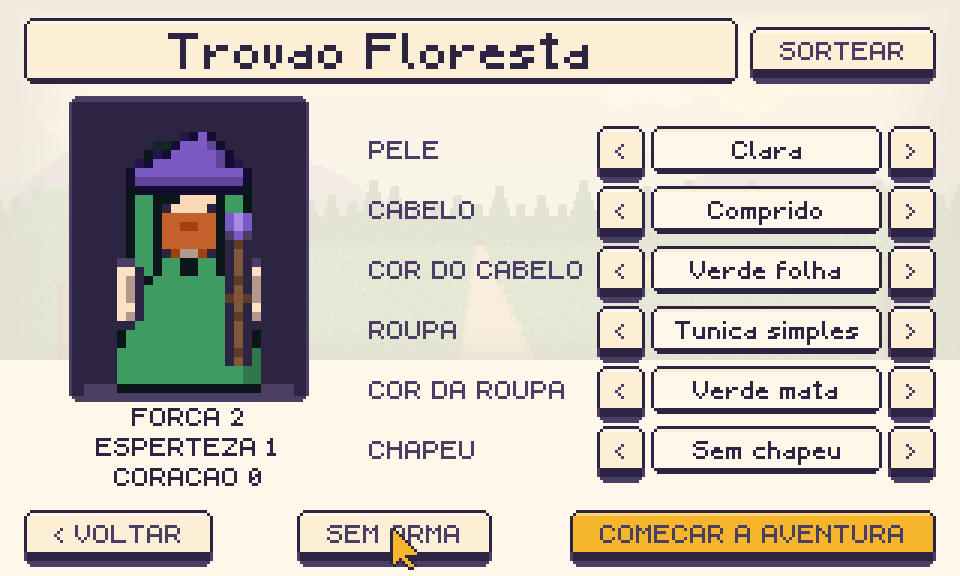
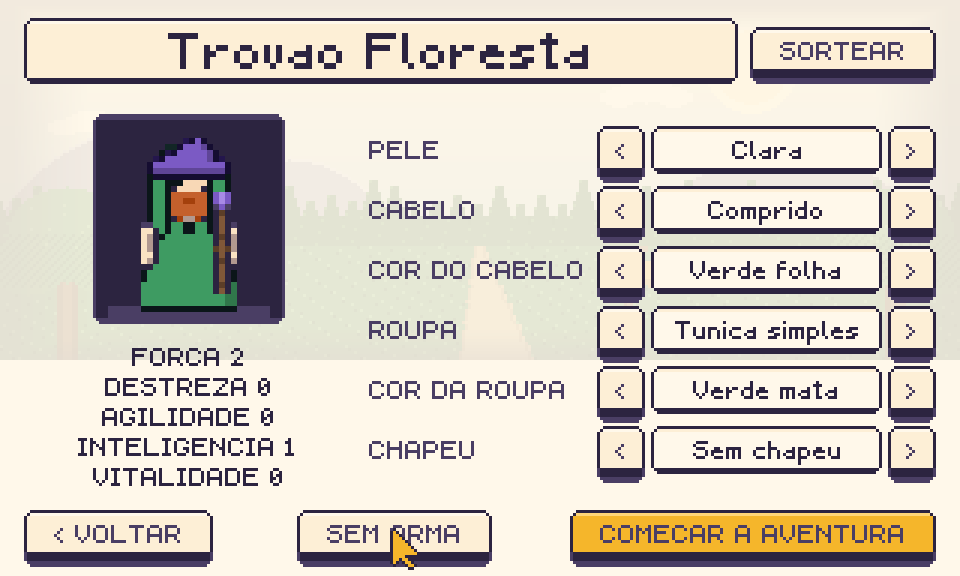
Os 5 atributos entram: Forca, Destreza, Agilidade, Inteligencia, Vitalidade
Implementa a segunda metade da revisao de 2026-09-04 (o d20 foi a primeira).
"Esperteza" fazia tres trabalhos escondidos - agora cada um tem nome proprio,
remapeado nas costuras reais do codigo:

- golpe a distancia (arco, funda): esperteza -> DESTREZA
- as treze magias: esperteza -> INTELIGENCIA
- iniciativa E a nova defesa do heroi (Combate.ts): esperteza -> AGILIDADE
- "coracao" -> VITALIDADE, porque a mesma palavra fazia dois trabalhos (o
  atributo E os coracoes/vida) - agora sao coisas com nomes diferentes

Bonus de raca/classe remapeados por flavor, nao em bloco: Mago -> Inteligencia
(magia), Cacador -> Destreza (arco), Elfo -> Inteligencia (Olhos de Coruja e
percepcao, que deriva de Inteligencia no desenho dos sub-atributos). Forca e
"coracao"-que-virou-vitalidade nas outras racas/classes sao troca direta, sem
ambiguidade.

Achado no caminho: o dom "Pe de Coelho" do Pequenino ainda dizia "troca um
OPS por um QUASE" - vocabulario que a revisao do d20 (commit anterior) ja
tinha aposentado. Corrigido pra "troca uma Falha por uma Falha Perto".

A criacao de personagem e a ficha (Criacao.ts, Ficha.ts) nao precisaram de
NENHUMA mudanca estrutural - ja liam tudo generico via ORDEM_PODERES/
ATRIBUTOS, entao os 5 atributos apareceram sozinhos. A grade de escolha do
"terceiro ponto" se rearranjou sozinha em 2+2+1, sem transbordo (confirmado
por npm run auditar, screenshots em ferramentas/telas/ atualizados).
[…]

Changed region(s): [[0.0625, 0.1562, 0.3438, 0.8438]]

diff --git a/src/dados/conteudo.ts b/src/dados/conteudo.ts
@@ -9,7 +9,12 @@
  */
 import type { Marca } from "../sistemas/marcas";
 
-export type Atributo = "forca" | "esperteza" | "coracao";
+/** Revisao de 2026-09-04 (CLAUDE.md): os tres da mesa (FORCA, ESPERTEZA,
+ *  CORACAO) viraram cinco. "Esperteza" fazia tres trabalhos escondidos - agora
+ *  cada um tem nome proprio: magia vira Inteligencia, golpe a distancia vira
+ *  Destreza, iniciativa e defesa viram Agilidade. "Coracao" vira Vitalidade
+ *  porque a mesma palavra fazia dois trabalhos (o atributo E os coracoes/vida). */
+export type Atributo = "forca" | "destreza" | "agilidade" | "inteligencia" | "vitalidade";
 
 /** Que pedaco do mundo uma acao de combate atinge. */
 export type FormaDeAcao = "casa" | "linha" | "aoRedor";
@@ -36,14 +41,20 @@ export type AcaoDeCombate = {
   marca?: Marca;
 };
 
+/** Icones emprestados ate arte propria existir (arte/icones.py so tem "forca"
+ *  e "esperteza" desenhados hoje) - Inteligencia, Destreza e Agilidade
+ *  reusam o icone de esperteza, Vitalidade reusa o coracao cheio. Comecar
+ *  feio de proposito, ver docs/06-fluxo-de-sprites.md. */
 export const ATRIBUTOS: Record<Atributo, { nome: string; icone: string; oQueFaz: string }> = {
-  forca: { nome: "FORCA", icone: "forca", oQueFaz: "empurrar, subir, lutar, carregar" },
-  esperteza: { nome: "ESPERTEZA", icone: "esperteza", oQueFaz: "procurar, lembrar, consertar, magia" },
-  coracao: { nome: "CORACAO", icone: "coracao_cheio", oQueFaz: "coragem, fazer amigo, sorte, animais" },
+  forca: { nome: "FORCA", icone: "forca", oQueFaz: "empurrar, subir, golpe de perto, carregar" },
+  destreza: { nome: "DESTREZA", icone: "esperteza", oQueFaz: "golpe a distancia, mira, mao firme" },
+  agilidade: { nome: "AGILIDADE", icone: "esperteza", oQueFaz: "iniciativa, esquiva, reflexo" },
+  inteligencia: { nome: "INTELIGENCIA", icone: "esperteza", oQueFaz: "magia, lembrar, consertar" },
+  vitalidade: { nome: "VITALIDADE", icone: "coracao_cheio", oQueFaz: "coragem, fazer amigo, resistir" },
 };
 
-/** A ordem em que os tres poderes aparecem na ficha de papel, de cima para baixo. */
-export const ORDEM_PODERES: Atributo[] = ["forca", "esperteza", "coracao"];
+/** A ordem em que os cinco atributos aparecem na ficha, de cima para baixo. */
+export const ORDEM_PODERES: Atributo[] = ["forca", "destreza", "agilidade", "inteligencia", "vitalidade"];
 
 // ------------------------------------------------------------------ racas
 export type Raca = {
@@ -70,7 +81,7 @@ export const RACAS: Raca[] = [
     id: "vale",
     nome: "Gente do Vale",
     curto: "Vale",
-    bonus: "coracao",
+    bonus: "vitalidade",
     dom: "Nunca Desisto",
     domTexto: "Uma vez por aventura voce pode rolar o dado de novo.",
     icone: "dado-5",
@@ -92,7 +103,7 @@ export const RACAS: Raca[] = [
     id: "elfo",
     nome: "Elfo da Folha",
     curto: "Elfo",
-    bonus: "esperteza",
+    bonus: "inteligencia",
     dom: "Olhos de Coruja",
     domTexto: "Voce enxerga no escuro e de bem longe.",
     icone: "dom-olhos-de-coruja",
@@ -103,9 +114,9 @@ export const RACAS: Raca[] = [
     id: "pequenino",
     nome: "Pequenino do Trigo",
     curto: "Pequenino",
-    bonus: "coracao",
+    bonus: "vitalidade",
     dom: "Pe de Coelho",
-    domTexto: "Uma vez por aventura voce troca um OPS por um QUASE.",
+    domTexto: "Uma vez por aventura voce troca uma Falha por uma Falha Perto.",
     icone: "dom-pata-de-coelho",
     coracoes: 3,
     cor: 0xf5b62b,
@@ -123,7 +134,7 @@ export const RACAS: Raca[] = [
     acaoDeCombate: {
       id: "sopro-quentinho", tipo: "habilidade", nome: "SOPRO QUENTINHO",
       dica: "Solta fogo pela boca. So uma vez por aventura.",
-      icone: 10, cor: 0xf5b62b, forma: "casa", alcance: 2, atributo: "coracao", som: "fogo",
+      icone: 10, cor: 0xf5b62b, forma: "casa", alcance: 2, atributo: "vitalidade", som: "fogo",
     },
   },
 ];
@@ -165,7 +176,7 @@ export const CLASSES: Classe[] = [
     id: "mago",
     nome: "Mago da Torre",
     curto: "Mago",
-    bonus: "esperteza",
+    bonus: "inteligencia",
     arma: "cajado",
     habilidade: "Tres Magias",
     habilidadeTexto: "Voce escolhe tres magias, cada uma com um uso por aventura.",
@@ -175,7 +186,7 @@ export const CLASSES: Classe[] = [
     id: "cacador",
     nome: "Cacador de Dragao",
     curto: "Cacador",
-    bonus: "esperteza",
+    bonus: "destreza",
     arma: "arco",
     habilidade: "Olho de Alvo",
     habilidadeTexto: "Voce ganha +1 no dado quando mira em alguma coisa longe.",
@@ -185,7 +196,7 @@ export const CLASSES: Classe[] = [
     id: "amigo",
     nome: "Amigo dos Bichos",
     curto: "Amigo",
-    bonus: "coracao",
+    bonus: "vitalidade",
     arma: "funda",
     habilidade: "Fala com Bichos",
     habilidadeTexto: "Voce conversa com qualquer bicho, e eles ajudam se gostarem de voce.",

diff --git a/src/dados/provador.ts b/src/dados/provador.ts
@@ -41,8 +41,9 @@ export type AcaoDeProva = {
   espera: number;
   /** skill: 1 uso por combate inteiro */
   usosPorCombate?: number;
-  /** que atributo entra no 1d6. Golpe usa FORCA, magia usa ESPERTEZA, igual a mesa */
-  atributo: "forca" | "esperteza" | "coracao";
+  /** que atributo entra no dado. Golpe usa FORCA, magia usa INTELIGENCIA
+   *  (revisao de 2026-09-04 - era ESPERTEZA na mesa, ver CLAUDE.md) */
+  atributo: "forca" | "destreza" | "agilidade" | "inteligencia" | "vitalidade";
   /** uma frase curta, mostrada quando o dedo ou o mouse para em cima do slot */
   dica: string;
   som: "cajado" | "soco" | "fogo" | "gelo" | "voz";
@@ -63,10 +64,10 @@ export type AcaoDeProva = {
 export const ACOES_DE_PROVA: AcaoDeProva[] = [
   { id: "golpe-cajado", tipo: "golpe", nome: "CAJADO", dica: "Bate de perto. O cajado nao foi feito pra isso.", icone: ICONE.cajado, cor: 0xb08658, forma: "casa", alcance: 1, espera: 0, atributo: "forca", som: "cajado" },
   { id: "soco", tipo: "golpe", nome: "SEM ARMA", dica: "Sempre da pra usar. Nunca quebra nada.", icone: ICONE.punho, cor: 0x4a3e64, forma: "casa", alcance: 1, espera: 0, atributo: "forca", som: "soco" },
-  { id: "bola-de-fogo", tipo: "magia", nome: "BOLA DE FOGO", dica: "Uma bola de fogo que voa longe.", icone: ICONE.fogo, cor: 0xf2802b, forma: "casa", alcance: 6, espera: 2, atributo: "esperteza", som: "fogo" },
-  { id: "bafo-gelado", tipo: "magia", nome: "BAFO GELADO", dica: "Um sopro que pega todo mundo na linha.", icone: ICONE.gelo, cor: 0x7ec4f2, forma: "linha", alcance: 3, espera: 2, atributo: "esperteza", som: "gelo", marca: "gelo" },
-  { id: "voz-de-trovao", tipo: "magia", nome: "VOZ DE TROVAO", dica: "Um grito que pega todo mundo em volta.", icone: ICONE.trovao, cor: 0x7b5ac4, forma: "aoRedor", alcance: 3, espera: 3, atributo: "esperteza", som: "voz" },
-  { id: "sopro-quentinho", tipo: "skill", nome: "SOPRO QUENTINHO", dica: "So uma vez por luta. Vale a pena guardar.", icone: ICONE.sopro, cor: 0xf5b62b, forma: "casa", alcance: 2, espera: 0, usosPorCombate: 1, atributo: "coracao", som: "fogo" },
+  { id: "bola-de-fogo", tipo: "magia", nome: "BOLA DE FOGO", dica: "Uma bola de fogo que voa longe.", icone: ICONE.fogo, cor: 0xf2802b, forma: "casa", alcance: 6, espera: 2, atributo: "inteligencia", som: "fogo" },
+  { id: "bafo-gelado", tipo: "magia", nome: "BAFO GELADO", dica: "Um sopro que pega todo mundo na linha.", icone: ICONE.gelo, cor: 0x7ec4f2, forma: "linha", alcance: 3, espera: 2, atributo: "inteligencia", som: "gelo", marca: "gelo" },
+  { id: "voz-de-trovao", tipo: "magia", nome: "VOZ DE TROVAO", dica: "Um grito que pega todo mundo em volta.", icone: ICONE.trovao, cor: 0x7b5ac4, forma: "aoRedor", alcance: 3, espera: 3, atributo: "inteligencia", som: "voz" },
+  { id: "sopro-quentinho", tipo: "skill", nome: "SOPRO QUENTINHO", dica: "So uma vez por luta. Vale a pena guardar.", icone: ICONE.sopro, cor: 0xf5b62b, forma: "casa", alcance: 2, espera: 0, usosPorCombate: 1, atributo: "vitalidade", som: "fogo" },
 ];
 
 /** Quanto cada um anda por turno, em casas. */

diff --git a/src/sistemas/acao.ts b/src/sistemas/acao.ts
@@ -36,8 +36,8 @@ const TABELA_DE_GOLPE: Record<string, Omit<AcaoDeCombate, "id" | "nome" | "cor" 
   "espada-curta": { tipo: "golpe", icone: 6, forma: "casa", alcance: 1, atributo: "forca", som: "soco" },
   cajado: { tipo: "golpe", icone: 5, forma: "casa", alcance: 1, atributo: "forca", som: "cajado" },
   martelo: { tipo: "golpe", icone: 6, forma: "casa", alcance: 1, atributo: "forca", som: "soco" },
-  arco: { tipo: "golpe", icone: 6, forma: "casa", alcance: 5, atributo: "esperteza", som: "soco" },
-  funda: { tipo: "golpe", icone: 6, forma: "casa", alcance: 4, atributo: "esperteza", som: "soco" },
+  arco: { tipo: "golpe", icone: 6, forma: "casa", alcance: 5, atributo: "destreza", som: "soco" },
+  funda: { tipo: "golpe", icone: 6, forma: "casa", alcance: 4, atributo: "destreza", som: "soco" },
 };
 
 /** O golpe de arma do heroi. `armaSprite` e o que esta EQUIPADO agora (pode
@@ -76,8 +76,8 @@ const TABELA_DE_MAGIA: Record<string, { forma: FormaDeAcao; alcance: number; ico
   "bola-de-fogo": { forma: "casa", alcance: 6, icone: 7, marca: "fogo" },
 };
 
-/** As magias tocam ESPERTEZA na mesa, igual golpe toca FORCA - regra geral,
- *  sem excecao entre as treze. */
+/** As magias tocam INTELIGENCIA (revisao de 2026-09-04 - era ESPERTEZA na
+ *  mesa), igual golpe toca FORCA - regra geral, sem excecao entre as treze. */
 export function acaoDaMagia(id: string): AcaoDeHeroi | undefined {
   const dados = TABELA_DE_MAGIA[id];
   const magia = acharMagia(id);
@@ -85,7 +85,7 @@ export function acaoDaMagia(id: string): AcaoDeHeroi | undefined {
   const somPorMarca: Partial<Record<string, string>> = { fogo: "fogo", gelo: "gelo", "som-alto": "voz" };
   return {
     id: magia.id, tipo: "magia", nome: magia.nome.toUpperCase(), dica: magia.texto,
-    cor: magia.cor, atributo: "esperteza",
+    cor: magia.cor, atributo: "inteligencia",
     som: (dados.marca && somPorMarca[dados.marca]) ?? "",
     ...dados,
     escopo: "porAventura",

diff --git a/src/cenas/Combate.ts b/src/cenas/Combate.ts
@@ -105,7 +105,7 @@ export class Combate extends Phaser.Scene {
   private dicaChapa!: Phaser.GameObjects.NineSlice;
   private coracoes = 3;
   private coracoesMax = 3;
-  private atributos: Record<Atributo, number> = { forca: 0, esperteza: 0, coracao: 0 };
+  private atributos: Record<Atributo, number> = { forca: 0, destreza: 0, agilidade: 0, inteligencia: 0, vitalidade: 0 };
   private topoDaBarra = 0;
   private alcancadas = new Map<string, { tx: number; ty: number; custo: number; de?: string }>();
   /** A cena de onde o heroi e o chao de verdade vem emprestados. Nunca cria
@@ -382,7 +382,7 @@ export class Combate extends Phaser.Scene {
     if (lutadores.length === 0) return this.acabarCombate();
     this.fase = "vezDaCriatura";
     this.ordem.comecar([
-      { id: "heroi", iniciativa: this.d20() + this.atributos.esperteza, movimentoMax: MOVIMENTO.heroi },
+      { id: "heroi", iniciativa: this.d20() + this.atributos.agilidade, movimentoMax: MOVIMENTO.heroi },
       ...lutadores.map((g) => ({ id: g.id, iniciativa: this.d20(), movimentoMax: MOVIMENTO.goblin })),
     ]);
     const minha = this.casaDoHeroi();
@@ -472,9 +472,9 @@ export class Combate extends Phaser.Scene {
           // o heroi rola DEFESA contra o ND do golpe da criatura - nunca mais
           // a criatura rolando o proprio ataque.
           const nd = 10 + b.bonus;
-          const resultado = testar(this.atributos.esperteza, nd, this.d20);
+          const resultado = testar(this.atributos.agilidade, nd, this.d20);
           tocarFicha(DADO.rola);
-          this.mostrarDado(resultado, this.atributos.esperteza, b.sprite.x, b.sprite.y - 40);
+          this.mostrarDado(resultado, this.atributos.agilidade, b.sprite.x, b.sprite.y - 40);
           this.time.delayedCall(520, () => {
             tocarFicha(DESFECHO[somDoDesfecho(resultado.desfecho)]);
             if (foiSucesso(resultado.desfecho)) {

diff --git a/src/cenas/Provador.ts b/src/cenas/Provador.ts
@@ -119,7 +119,7 @@ export class Provador extends Phaser.Scene {
    *  coracoes dele, que ja sao tratados do mesmo jeito. */
   private condicoesHeroi: Condicao[] = [];
   private condicoesHeroiUI!: Phaser.GameObjects.Container;
-  private atributos: Record<Atributo, number> = { forca: 0, esperteza: 0, coracao: 0 };
+  private atributos: Record<Atributo, number> = { forca: 0, destreza: 0, agilidade: 0, inteligencia: 0, vitalidade: 0 };
   private topoDaBarra = 0;
   private alcancadas = new Map<string, { tx: number; ty: number; custo: number; de?: string }>();
   private largura = 0;
@@ -206,7 +206,7 @@ export class Provador extends Phaser.Scene {
     // Os atributos saem da mesa: raca da +1, classe da +1. O elfo mago fica com
     // ESPERTEZA 2 e FORCA 0, e isso aparece na hora de rolar: ele e otimo de
     // magia e ruim de porrada, sem ninguem ter escrito essa regra em lugar nenhum.
-    this.atributos = { forca: 0, esperteza: 0, coracao: 0 };
+    this.atributos = { forca: 0, destreza: 0, agilidade: 0, inteligencia: 0, vitalidade: 0 };
     this.atributos[acharRaca(ficha.raca).bonus] += 1;
     this.atributos[acharClasse(ficha.classe).bonus] += 1;
 
@@ -464,7 +464,7 @@ export class Provador extends Phaser.Scene {
     // re-rolada dezenas de vezes: a ordem muda sozinha na frente do jogador.
     this.fase = "vezDaCriatura";
     this.ordem.comecar([
-      { id: "heroi", iniciativa: this.d6() + this.atributos.esperteza, movimentoMax: MOVIMENTO.heroi },
+      { id: "heroi", iniciativa: this.d6() + this.atributos.agilidade, movimentoMax: MOVIMENTO.heroi },
       ...lutadores.map((g) => ({ id: g.id, iniciativa: this.d6(), movimentoMax: MOVIMENTO.goblin })),
     ]);
     // O heroi anda solto fora de combate, entao quando a luta comeca ele quase

diff --git a/src/sistemas/poderes.ts b/src/sistemas/poderes.ts
@@ -1,4 +1,5 @@
-/** Os tres poderes do heroi: FORCA, ESPERTEZA, CORACAO.
+/** Os cinco poderes do heroi: FORCA, DESTREZA, AGILIDADE, INTELIGENCIA,
+ * VITALIDADE (revisao de 2026-09-04 - eram tres na mesa, ver CLAUDE.md).
  *
  * A regra e a do manual impresso, pagina 2, passo 4: todo poder comeca em zero,
  * a raca da +1, a classe da +1, e o jogador coloca mais +1 onde quiser.
@@ -15,7 +16,7 @@ import type { Heroi } from "./estado";
 
 export type Poderes = Record<Atributo, number>;
 
-export const zerados = (): Poderes => ({ forca: 0, esperteza: 0, coracao: 0 });
+export const zerados = (): Poderes => ({ forca: 0, destreza: 0, agilidade: 0, inteligencia: 0, vitalidade: 0 });
 
 /** O que a origem do heroi da sozinha: +1 da raca e +1 da classe. */
 export function poderesDaOrigem(raca: string, classe: string): Poderes {
@@ -32,7 +33,10 @@ export function poderesDaOrigem(raca: string, classe: string): Poderes {
  *  nunca anda por ai com um ponto a menos do que o papel lhe daria. */
 export function poderEscolhidoDoHeroi(heroi: Heroi): Atributo {
   const escolhido = heroi.poderEscolhido as Atributo;
-  if (escolhido === "forca" || escolhido === "esperteza" || escolhido === "coracao") {
+  if (
+    escolhido === "forca" || escolhido === "destreza" || escolhido === "agilidade" ||
+    escolhido === "inteligencia" || escolhido === "vitalidade"
+  ) {
     return escolhido;
   }
   return acharRaca(heroi.raca).bonus;

diff --git a/ferramentas/auditoria-ui.md b/ferramentas/auditoria-ui.md
@@ -10,13 +10,13 @@ Problemas encontrados: 0
 | 03-criacao-raca-anao | Criacao:33 Som:0 Ponteiro:1 | 0 |
 | 04-criacao-classe | Criacao:37 Som:0 Ponteiro:1 | 0 |
 | 05-criacao-classe-mago | Criacao:37 Som:0 Ponteiro:1 | 0 |
-| 06-criacao-poder | Criacao:42 Som:0 Ponteiro:1 | 0 |
-| 07-criacao-heroi | Criacao:105 Som:0 Ponteiro:1 | 0 |
-| 08-criacao-heroi-com-nome | Criacao:105 Som:0 Ponteiro:1 | 0 |
-| 09-criacao-com-arma | Criacao:107 Som:0 Ponteiro:1 | 0 |
+| 06-criacao-poder | Criacao:50 Som:0 Ponteiro:1 | 0 |
+| 07-criacao-heroi | Criacao:107 Som:0 Ponteiro:1 | 0 |
+| 08-criacao-heroi-com-nome | Criacao:107 Som:0 Ponteiro:1 | 0 |
+| 09-criacao-com-arma | Criacao:109 Som:0 Ponteiro:1 | 0 |
 | 10-mundo | Mundo:89 Interface:37 Som:0 Ponteiro:1 | 0 |
 | 11-janela-eu | Interface:37 Ficha:52 Som:0 Ponteiro:1 | 0 |
-| 11-janela-poderes | Interface:37 Ficha:43 Som:0 Ponteiro:1 | 0 |
+| 11-janela-poderes | Interface:37 Ficha:47 Som:0 Ponteiro:1 | 0 |
 | 11-janela-magias | Interface:37 Ficha:36 Som:0 Ponteiro:1 | 0 |
 | 11-janela-mochila | Interface:37 Ficha:33 Som:0 Ponteiro:1 | 0 |
 | 11-janela-diario | Interface:37 Ficha:33 Som:0 Ponteiro:1 | 0 |
@@ -29,7 +29,7 @@ Problemas encontrados: 0
 | perto-03-criacao-raca-pequenino | Criacao:34 Som:0 Ponteiro:1 | 0 |
 | perto-04-criacao-classe | Criacao:37 Som:0 Ponteiro:1 | 0 |
 | perto-05-criacao-classe-cavaleiro | Criacao:36 Som:0 Ponteiro:1 | 0 |
-| perto-06-criacao-poder | Criacao:35 Som:0 Ponteiro:1 | 0 |
+| perto-06-criacao-poder | Criacao:44 Som:0 Ponteiro:1 | 0 |
 | perto-07-criacao-heroi | Criacao:102 Som:0 Ponteiro:1 | 0 |
 | perto-08-criacao-heroi-com-nome | Criacao:102 Som:0 Ponteiro:1 | 0 |
 | perto-09-criacao-com-arma | Criacao:104 Som:0 Ponteiro:1 | 0 |
@@ -37,9 +37,9 @@ Problemas encontrados: 0
 | longe-03-criacao-raca-pequenino | Criacao:33 Som:0 Ponteiro:1 | 0 |
 | longe-04-criacao-classe | Criacao:36 Som:0 Ponteiro:1 | 0 |
 | longe-05-criacao-classe-cavaleiro | Criacao:35 Som:0 Ponteiro:1 | 0 |
-| longe-06-criacao-poder | Criacao:42 Som:0 Ponteiro:1 | 0 |
-| longe-07-criacao-heroi | Criacao:105 Som:0 Ponteiro:1 | 0 |
-| longe-08-criacao-heroi-com-nome | Criacao:105 Som:0 Ponteiro:1 | 0 |
-| longe-09-criacao-com-arma | Criacao:107 Som:0 Ponteiro:1 | 0 |
+| longe-06-criacao-poder | Criacao:50 Som:0 Ponteiro:1 | 0 |
+| longe-07-criacao-heroi | Criacao:107 Som:0 Ponteiro:1 | 0 |
+| longe-08-criacao-heroi-com-nome | Criacao:107 Som:0 Ponteiro:1 | 0 |
+| longe-09-criacao-com-arma | Criacao:109 Som:0 Ponteiro:1 | 0 |
 
 Nenhum problema de sobreposicao ou transbordo encontrado.

diff --git a/CLAUDE.md b/CLAUDE.md
@@ -114,8 +114,13 @@ sem tela de game over - so o resumo do prejuizo e um botao pra seguir.
   parte: Resistencia (de Forca), Percepcao e Conhecimento (de Inteligencia), Vontade
   (de Vitalidade). "Coracao" vira "Vitalidade" tambem porque a mesma palavra fazia
   dois trabalhos (o atributo E os coracoes/vida) - agora sao coisas com nomes
-  diferentes. A criacao de personagem (quantos pontos, de onde vem cada +1) ainda
-  esta em desenho, nao fechada.
+  diferentes. **Implementado**: `+1` de raca/classe/jogador continua igual (3
+  pontos, agora espalhados por 5 opcoes em vez de 3), golpe a distancia e
+  Destreza, magia e Inteligencia, iniciativa e defesa sao Agilidade. Os
+  sub-atributos (Resistencia, Percepcao, Conhecimento, Vontade) continuam so
+  conceito - nenhuma acao os testa ainda, isso espera as 11 magias
+  reformuladas. A criacao de personagem (mais pontos? uma Origem nova?) ainda
+  esta em desenho, nao fechada - so os 5 atributos em si foram implementados.
 - **Teste, revisao de 2026-09-04: 1d6 virou 1d20 contra dificuldade.** O sistema da
   mesa (tres faixas fixas) saiu; entrou 1d20 + modificador contra um numero de
   dificuldade (ND) que cada acao/bicho/obstaculo declara o proprio. Cinco desfechos
